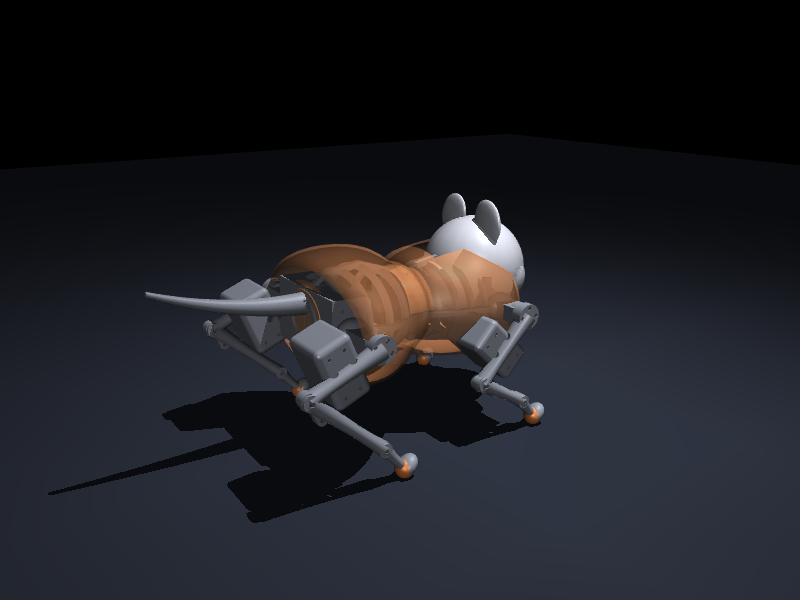
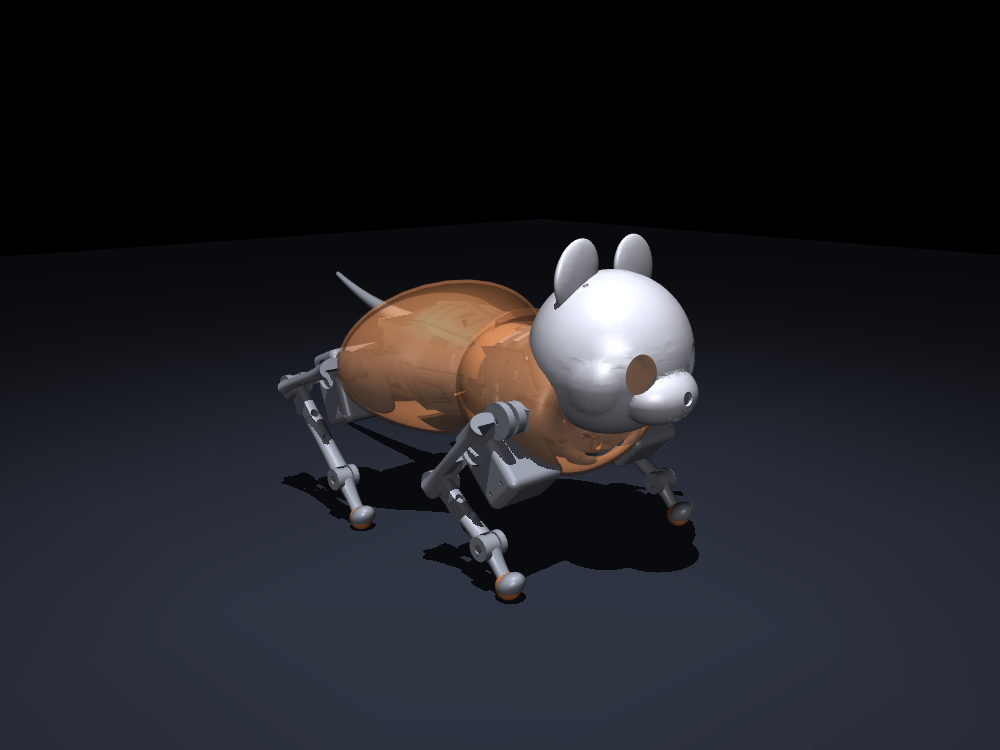
docs: refresh the README renders, and fix the scaling the new drives broke
The hero shot was taken from behind — tail to camera, head turned away — on a
robot whose whole point is the face. sim/render_assembly.py now emits a front
3/4 view, and every README still is re-rendered from the current model: they all
predated the mechanism rework and showed a robot that no longer exists.

Regenerating the scaling figure turned up two real problems.

The study reported the old 1451 g at k=1 and skipped every variant as "cached".
Its cache was keyed on SCALE alone, so a design change could not invalidate it —
the same class of drift as the insert counts. It is now keyed on a fingerprint of
the sources that decide the answer.

With the cache honest, every scale but k=1 failed to build. The tail and head-yaw
four-bars had been added with FIXED link lengths while their ground scaled off
FORE_LEN and AFT_LEN, so away from k=1 they no longer closed. The stations and
link lengths now scale with the body, the way the knee's four-bar already did, and
all three linkages assemble across the sweep. That moves the viable range to
k ≈ 0.7–1.5: the robot is lighter than it was, so it takes longer to reach the
1.6 kg ceiling.

The scaling figure was a hand-made image, which is why its caption could claim a
band the study no longer reported. analysis/scaling_study.py draws it now.

Changed region(s): [[0.1875, 0.3, 0.7188, 0.87], [0.0938, 0.78, 0.1875, 0.81], [0.0625, 0.81, 0.0938, 0.84]]

diff --git a/cad/params.py b/cad/params.py
@@ -39,6 +39,11 @@ def m(mm: float) -> float:
 # (like the servo, those are fixed COTS parts: M2/M3 screws, brass inserts, Ø6 axle).
 # DEFAULT-IDENTITY: with SABO_SCALE unset (=1.0) every constant is byte-identical to
 # the unscaled design (x*1.0 == x), so validation output and the tests are unchanged.
+#
+# Every LENGTH added later has to join this list or the scaled model stops assembling. The
+# remote drives were added with fixed link lengths while their GROUND scaled off FORE_LEN
+# and AFT_LEN, so at k != 1 the four-bars no longer closed and every variant but k=1 failed
+# to build -- silently, because the study's cache had no idea the design had moved.
 SCALE = float(os.environ.get("SABO_SCALE", "1.0"))
 
 
@@ -191,7 +196,7 @@ NECK_L = 34.0 * SCALE
 # behind it there is 15 mm. The head itself does not move -- only the yaw axis does, which
 # gives the head a slight sideways shift as it turns, the way a real neck does.
 HEAD_DRIVE = "remote_fourbar"
-HEAD_GIMBAL_STACK = 18.0           # pan axis -> pitch axis (= the head centre)
+HEAD_GIMBAL_STACK = 18.0 * SCALE   # pan axis -> pitch axis (= the head centre)
 HEAD_MOUNT_X = FORE_LEN - HEAD_GIMBAL_STACK
 LIM_HEAD_PAN = (-1.0, 1.0)         # rad: what the pan four-bar delivers with a crank small
                                    # enough to stay clear of the waist (2.07 rad available)
@@ -199,11 +204,13 @@ LIM_HEAD_PAN = (-1.0, 1.0)         # rad: what the pan four-bar delivers with a 
 # Pan: servo shaft (x, z) in the fore-torso frame, from actuator_fit.capacity('chest'),
 # dropped to the underside so its crank sweeps below the head ball (which reaches
 # down to z = -24 at the pan axis; the chest floor is at z = -39).
-PAN_SERVO = (31.0, -23.0)
+PAN_SERVO = (31.0 * SCALE, -23.0 * SCALE)
 # The crank is deliberately SMALL. A longer one reaches the same range with a nicer
 # transmission angle, but its swept disc runs back past the waist plane -- at crank 27
 # it reaches x = -0.5, into the aft half. At 17 it stops at x = +9.5.
-PAN_FOURBAR = dict(crank=17.0, coupler=47.0, rocker=13.5, crank_window=(-22.0, 87.0))
+PAN_FOURBAR = _scale_lengths(
+    dict(crank=17.0, coupler=47.0, rocker=13.5, crank_window=(-22.0, 87.0)),
+    ("crank", "coupler", "rocker"))
 
 # Pitch: the servo sits ON the pitch axis at the head's centre, its horn bolted to the
 # neck column, so the head nods against the column. No linkage.
@@ -230,14 +237,14 @@ def pitch_yoke_y() -> float:
 
 
 PITCH_YOKE_Y = 24.0                # legacy alias; prefer pitch_yoke_y()
-PITCH_YOKE_ARM = 8.0               # yoke arm cross-section (mm)
+PITCH_YOKE_ARM = 8.0 * SCALE               # yoke arm cross-section (mm)
 
 
-PAN_BEARING_Z = -35.0              # the neck's yaw bearing, in the chest under the ball
-NECK_COLUMN_W = 14.0               # column cross-section (mm)
+PAN_BEARING_Z = -35.0 * SCALE              # the neck's yaw bearing, in the chest under the ball
+NECK_COLUMN_W = 14.0 * SCALE               # column cross-section (mm)
 
 
-PAN_LINK_Z = 8.5                   # pan linkage plane, in the neck column's own frame
+PAN_LINK_Z = 8.5 * SCALE                   # pan linkage plane, in the neck column's own frame
                                    # (global z = PAN_BEARING_Z + this = -26.5: below the
                                    # head ball, which stops at -16, and above the chest
                                    # floor, which is at -34 under the servo)
@@ -264,7 +271,7 @@ def pitch_origin_local() -> tuple[float, float, float]:
 # The head sits above the shoulder line rather than level with it. That is how a cat is
 # built, and here it is also what gives the pan linkage a plane to run in: the head ball
 # reaches down to z = -24 at the yaw axis, and the pan rocker needs to pass UNDER it.
-HEAD_RISE = 8.0
+HEAD_RISE = 8.0 * SCALE
 
 
 def head_centre() -> tuple[float, float, float]:
@@ -273,9 +280,9 @@ def head_centre() -> tuple[float, float, float]:
 EYE_R = 11.0 * SCALE
 EYE_SPACING = 40.0 * SCALE
 CAM_R = 6.0           # internal camera bore radius (not in the scaled-dims list)
-EAR_BASE_H = 6.0           # flat foot of the ear, seated on the head's mounting pad
-EAR_FOOT_W = 10.0          # foot width across the head (Y)
-EAR_PAD_PROUD = 1.0        # how far the pad stands off the sphere, so the foot lands flat
+EAR_BASE_H = 6.0 * SCALE           # flat foot of the ear, seated on the head's mounting pad
+EAR_FOOT_W = 10.0 * SCALE          # foot width across the head (Y)
+EAR_PAD_PROUD = 1.0 * SCALE        # how far the pad stands off the sphere, so the foot lands flat
 
 
 def ear_station(side: int = 1) -> tuple[float, float, float]:
@@ -544,11 +551,11 @@ HORN_DISC_T = 2.5        # thickness of the metal STS3215 output disc
 # heat-set inserts in that pad.
 MOUNT_SCREW = "M3"
 MOUNT_SCREWS = 2                  # screws per leg bracket
-MOUNT_PAD = (26.0, 14.0)          # torso mount pad footprint (X, Z), mm —
+MOUNT_PAD = (26.0 * SCALE, 14.0 * SCALE)   # torso mount pad footprint (X, Z), mm —
                                   # kept short in Z so the bolted foot stays clear of
                                   # the knee servo boss swinging past it
-MOUNT_PAD_T = 5.0                 # pad thickness (grows inboard from the flank plane)
-MOUNT_BOLT_PITCH = 16.0           # screw spacing along X on the pad
+MOUNT_PAD_T = 5.0 * SCALE                 # pad thickness (grows inboard from the flank plane)
+MOUNT_BOLT_PITCH = 16.0 * SCALE           # screw spacing along X on the pad
 MOUNT_FACE_GAP = 0.15             # bracket-to-pad seating gap (a print-fit, not a joint)
 
 # =============================================================== waist joint clearance
@@ -567,11 +574,13 @@ WAIST_CLEAR = 3.0
 # ``TAIL_SERVO`` is the (x, z) of the servo's OUTPUT SHAFT in the aft-torso frame, chosen
 # from ``analysis.actuator_fit.capacity('aft')`` -- the one station where the housing fits.
 TAIL_DRIVE = "remote_crank"        # 'direct' (servo on the joint) | 'remote_crank'
-TAIL_SERVO = (-54.0, 0.0)
+TAIL_SERVO = (-54.0 * SCALE, 0.0)
 # Link lengths from a search over analysis.fourbar with this ground distance, keeping the
 # transmission angle inside the same 40-140 deg band the knee uses. Gives 2.14 rad of
 # rocker travel against the +-1.0 rad the tail joint actually needs.
-TAIL_FOURBAR = dict(crank=21.5, coupler=45.0, rocker=18.0, crank_window=(-28.5, 84.0))
+TAIL_FOURBAR = _scale_lengths(
+    dict(crank=21.5, coupler=45.0, rocker=18.0, crank_window=(-28.5, 84.0)),
+    ("crank", "coupler", "rocker"))
 LIM_TAIL = (-1.0, 1.0)             # rad, matches cad/assembly.py's tail link
 
 

diff --git a/analysis/scaling_study.py b/analysis/scaling_study.py
@@ -34,6 +34,7 @@ import argparse
 import json
 import os
 import re
+import pathlib
 import subprocess
 import sys
 import traceback
@@ -53,18 +54,49 @@ CACHE = os.path.join(OUT_DIR, "_scaling_cache.json")
 _J0, _J1 = "<<<SCALING_JSON>>>", "<<<END_SCALING_JSON>>>"
 
 
+_FINGERPRINT_KEY = "__design__"
+
+
+def _design_fingerprint() -> str:
+    """A hash of the sources that decide what a scaled variant comes out as.
+
+    The cache is keyed by SCALE alone, which is only safe while the design does not move.
+    It did: a run after the mechanism rework reported the old 1451 g at k=1 and skipped
+    every variant as "cached". Keying the cache on the design as well means a changed
+    model invalidates it instead of quietly serving the previous one."""
+    import hashlib
+
+    root = os.path.dirname(os.path.dirname(os.path.abspath(__file__)))
+    h = hashlib.sha256()
+    srcs = sorted(pathlib.Path(root, "cad").rglob("*.py"))
+    srcs += [pathlib.Path(root, "sim", "gait.py"), pathlib.Path(root, "analysis", "validate.py")]
+    for f in srcs:
+        if "__pycache__" in f.parts:
+            continue
+        h.update(f.name.encode())
+        try:
+            h.update(f.read_bytes())
+        except OSError:
+            pass
+    return h.hexdigest()[:16]
+
+
 def _load_cache() -> dict:
     try:
         with open(CACHE, encoding="utf-8") as f:
-            return json.load(f)
+            cache = json.load(f)
     except (OSError, ValueError):
         return {}
+    if cache.pop(_FINGERPRINT_KEY, None) != _design_fingerprint():
+        print("  (design changed since the cache was written — recomputing)", flush=True)
+        return {}
+    return cache
 
 
 def _save_cache(cache: dict) -> None:
     os.makedirs(OUT_DIR, exist_ok=True)
     with open(CACHE, "w", encoding="utf-8") as f:
-        json.dump(cache, f, indent=2)
+        json.dump({**cache, _FINGERPRINT_KEY: _design_fingerprint()}, f, indent=2)
 
 # regexes over validate's OWN reported detail strings (the study is a faithful
 # CONSUMER of validate's numbers, so the table can never disagree with the checker).
@@ -385,6 +417,63 @@ def build_markdown(by_k: dict[str, dict]) -> str:
     return "\n".join(L) + "\n"
 
 
+def write_figure(by_k: dict, path: str) -> str | None:
+    """Plot the sweep — the README's scaling figure, drawn from this run's own numbers.
+
+    It used to be a hand-made image, which meant its caption could go stale without
+    anything noticing; it claimed a viable band the study no longer reported. Emitting it
+    here puts the picture under the same rule as the tables."""
+    try:
+        import matplotlib
+        matplotlib.use("Agg")
+        import matplotlib.pyplot as plt
+    except ImportError:
+        return None
+
+    ks, mass, static, dyn, roll, ok = [], [], [], [], [], []
+    for k in RANGE_SCALES:
+        r = by_k.get(k)
+        if not r or r.get("validate", {}).get("mass_g") is None:
+            continue
+        ks.append(float(k))
+        mass.append(r["validate"]["mass_g"])
+        static.append(r["validate"]["static_peak_torque_pct"])
+        dyn.append(r["walk"].get("dynamic_peak_torque_pct"))
+        roll.append(r["walk"].get("roll_pp_deg"))
+        ok.append(_buildable(r))
+
+    from cad import params as P
+    lo, hi = (v * 1000.0 for v in P.MASS_TARGET)
+    fig, ax = plt.subplots(1, 3, figsize=(13, 3.8))
+
+    ax[0].axhspan(lo, hi, color="0.90", label="mass target")
+    ax[0].plot(ks, mass, "o-", color="#1f77b4")
+    ax[0].set_ylabel("total mass (g)")
+
+    ax[1].axhline(50, ls="--", color="#d62728", label="static limit (SF 2)")
+    ax[1].plot(ks, static, "o-", color="#ff7f0e", label="static peak")
+    ax[1].plot(ks, dyn, "s-", color="#2ca02c", label="walk peak")
+    ax[1].set_ylabel("% of servo stall")
+    ax[1].legend(fontsize=7)
+
+    ax[2].plot(ks, roll, "o-", color="#9467bd")
+    ax[2].set_ylabel("walk torso roll p-p (deg)")
+
+    kmin, kmax = min((k for k, o in zip(ks, ok) if o), default=None), \
+        max((k for k, o in zip(ks, ok) if o), default=None)
+    for a in ax:
+        if kmin is not None:
+            a.axvspan(kmin, kmax, color="#2ca02c", alpha=0.10)
+        a.set_xlabel("SCALE k")
+        a.grid(alpha=0.25)
+    fig.suptitle("Sabo scaling study — one SCALE knob, re-validated end to end"
+                 "   (shaded k = buildable: %s–%s)" % (kmin, kmax), fontsize=10)
+    fig.tight_layout()
+    fig.savefig(path, dpi=130)
+    plt.close(fig)
+    return path
+
+
 def main() -> int:
     ap = argparse.ArgumentParser(description=__doc__)
     ap.add_argument("--worker", metavar="K",
@@ -456,9 +545,14 @@ def main() -> int:
                    "viable_range": _viable_range([by_k[k] for k in RANGE_SCALES]),
                    "variants": by_k}, f, indent=2)
 
+    fig_path = write_figure(by_k, os.path.join(
+        os.path.dirname(OUT_DIR), "img", "scaling.png"))
+
     print("-" * 70)
     print(f"wrote {os.path.relpath(md_path)}")
     print(f"wrote {os.path.relpath(json_path)}")
+    if fig_path:
+        print(f"wrote {os.path.relpath(fig_path)}")
     return 0
 
 

diff --git a/sim/render_assembly.py b/sim/render_assembly.py
@@ -1,7 +1,14 @@
-"""Assembly stills (front + iso) via MuJoCo — eyeball the slim shoulders.
+"""Assembly stills via MuJoCo — the robot as its own kinematics actually pose it.
 
-Steps the rig to a settled stance, then captures a front and a 3/4-iso PNG with a
-free camera following the torso CoM. Saves to cad/out/assembly_{front,iso}.png.
+Steps the rig to a settled stance, then captures a set of views with a free camera
+following the torso CoM. Saves to ``cad/out/assembly_<view>.png``.
+
+Azimuth runs with the robot's nose at 175 deg, so the views are:
+
+    hero    front 3/4 — the one the README leads with, so it has to show the FACE
+    front   straight on
+    side    profile, for the digitigrade stance
+    iso     rear 3/4, which is what the old hero shot actually was
 """
 
 from __future__ import annotations
@@ -34,8 +41,9 @@ def main():
     # to let it settle level on the floor before the still.
     for _ in range(300):
         mujoco.mj_step(rig.model, rig.data)
-    renderer = mujoco.Renderer(rig.model, 600, 800)
-    for label, (az, el) in (("iso", (55, -18)), ("front", (175, -8))):
+    renderer = mujoco.Renderer(rig.model, 750, 1000)
+    for label, (az, el) in (("hero", (138, -14)), ("front", (175, -8)),
+                            ("side", (95, -8)), ("iso", (55, -18))):
         renderer.update_scene(rig.data, camera=_cam(rig, az, el))
         p = os.path.join(OUT, f"assembly_{label}.png")
         Image.fromarray(renderer.render()).save(p)

diff --git a/sim/mjcf.py b/sim/mjcf.py
@@ -121,7 +121,8 @@ def build_mjcf(start_z: float | None = None) -> str:
   <asset>
 {assets}
   </asset>
-  <visual><global offwidth="900" offheight="700"/></visual>
+  <!-- Offscreen buffer for the README stills; MuJoCo will not render larger than this. -->
+  <visual><global offwidth="1400" offheight="1100"/></visual>
   <worldbody>
     <light pos="0.3 -0.3 1.2" dir="-0.2 0.2 -1" diffuse="0.9 0.9 0.9"/>
     <camera name="cam" pos="0.02 -0.52 0.20" xyaxes="1 0 0 0 0.35 1" mode="trackcom"/>

diff --git a/README.md b/README.md
@@ -1,12 +1,15 @@
 # Sabo — a low-cost, quiet, compliant 3D-printed quadruped
 
-![Sabo — inner frame under a translucent skin](docs/img/hero.png)
+![Sabo — the inner frame under a translucent skin](docs/img/hero.png)
+<p align="center"><em>Standing in the pose its own kinematics settle into — MuJoCo, not a posed CAD render.</em></p>
 
 <p align="center">
   <img src="docs/img/front.png" alt="Front view — the face" width="46%" />
   <img src="docs/img/walk.gif" alt="Walking gait, front-facing (MuJoCo)" width="46%" />
 </p>
-<p align="center"><em>Left: front view (face). Right: walk gait, front-facing, CoM-tracked (MuJoCo) — torso roll ≈ 2.5° p-p.</em></p>
+<p align="center"><em>Left: the face — Ø100 head on a 180 mm body, baby-schema by intent and by
+actuator budget (it holds two of the twelve servos). Right: walk gait, CoM-tracked — torso
+roll ≈ 3.1° p-p.</em></p>
 
 Sabo is a kitten-scale (**~1.31 kg**) quadruped platform: **fully 3D-printed**, driven by
 cheap **serial-bus servos**, and designed to be **quiet** and **backdrivable** enough to
@@ -31,6 +34,10 @@ backdrivable + sub-1 kg** at once.
 - **Cat-anatomical morphology** — digitigrade 4-DOF legs (front/rear differ), a sagittal
   spine (waist) joint, and a 2-axis head gimbal (pan + pitch; roll is handled by EIS), in
   a parametric build123d model.
+- **Actuators placed where they fit, not where they are convenient** — four joints have no
+  room for a servo on the joint itself, so they are driven through four-bars from wherever
+  there is: the hips from the torso core, the knees from up the thigh, the tail and the
+  head's yaw from the body. `analysis/actuator_fit.py` is what decides.
 - **A limb architecture for cheap compliance** — a **proximal four-bar knee** (cable-free,
   light shank), a **remote-axle hip** (servos in the torso → −93 % hip lateral inertia),
   and **coupled underactuation** (2 motors/leg).
@@ -64,7 +71,7 @@ All derived from the model — regenerate with `python -m analysis.platform_repo
 | Four-bar knee | 128° ROM, 41–140° transmission angle (singularity-free) |
 | Remote-axle hip | **−93 %** hip lateral inertia (motors relocated to the torso) |
 | Envelope | 352 × 201 × 197 mm |
-| Viable scale range | **k ≈ 0.7–1.25** (body 126–225 mm) — the fixed actuator sets the window |
+| Viable scale range | **k ≈ 0.7–1.5** (body 126–270 mm) — the fixed actuator sets the window |
 
 Gait benchmark (MuJoCo):
 
@@ -85,19 +92,27 @@ Gait benchmark (MuJoCo):
   <img src="docs/img/loaf.png" alt="Loaf pose" width="31%" />
   <img src="docs/img/sit.png" alt="Sit pose" width="31%" />
 </p>
-<p align="center"><em>Left → right: digitigrade stance (side), loaf, sit — current model, MuJoCo.</em></p>
+<p align="center"><em>Left → right: digitigrade stance (side), loaf, sit — current model, MuJoCo.
+The ribcage, the channel thighs and the four-bar inside them read through the translucent skin.</em></p>
 
 ### Mechanism & analysis
 
 <p align="center">
   <img src="docs/img/fourbar.png" alt="Four-bar knee kinematics" width="90%" />
 </p>
-<p align="center"><em>Proximal four-bar knee — 128° ROM, monotonic and invertible, with the transmission angle held inside 40–140° (no singularity/lock-up).</em></p>
+<p align="center"><em>Proximal four-bar knee — 129° ROM, monotonic and invertible, with the
+transmission angle held inside 40–140° (no singularity/lock-up). The same tool sizes the
+tail and head-yaw drives, which are four-bars for the same reason: no room for a servo on
+the joint itself.</em></p>
 
 <p align="center">
   <img src="docs/img/scaling.png" alt="Design-as-code scaling study" width="74%" />
 </p>
-<p align="center"><em>Scaling study — the whole robot regenerated + re-validated from one <code>SCALE</code> knob. The <b>fixed</b> actuator pins the viable build window to <b>k ≈ 0.7–1.25</b>: scale up until mass/torque run out, down until the servo no longer fits.</em></p>
+<p align="center"><em>Scaling study — the whole robot regenerated + re-validated from one
+<code>SCALE</code> knob, and this figure is drawn by that same run. The <b>fixed</b> actuator pins the
+viable window to <b>k ≈ 0.7–1.5</b>: scale up until mass and static torque run out, down until the
+45 mm servo body no longer fits the thigh. Note the walk peak (green) barely moves — the limits are
+the static budget and packaging, not gait stability.</em></p>
 
 ## Repository layout
 
@@ -154,8 +169,10 @@ python -m analysis.scaling_study       # regenerate + re-validate the robot at k
 ```
 
 The **scaling study** shows the toolchain rescaling the whole robot from one `SCALE` knob
-(env `SABO_SCALE`) with no drift, and finds the **viable build range k ≈ 0.7–1.25** — the
-scale window is pinned by the *fixed* actuator/electronics, not the printed geometry.
+(env `SABO_SCALE`) with no drift, and finds the **viable build range k ≈ 0.7–1.5** — the
+scale window is pinned by the *fixed* actuator/electronics, not the printed geometry. Its
+cache is keyed on a fingerprint of the design, so a changed model invalidates it instead of
+quietly re-serving the previous run's numbers.
 
 ## Documentation
 

diff --git a/docs/platform.md b/docs/platform.md
@@ -114,11 +114,17 @@ spec sheet is derived live, so it cannot disagree with the printed/simulated rob
 **Scaling study (C3 evidence):** `analysis/scaling_study.py` regenerates + re-validates
 the whole robot at k = 0.5–1.75 from a single `SCALE` knob, in a fresh subprocess per
 scale (`docs/out/scaling_study.md`). It confirms the pipeline rescales with no drift, and
-maps the **viable build range k ≈ 0.7–1.25** (body 126–225 mm): below it the fixed-size
-servo/electronics break the design three ways (walk→100 % stall & fall, servo won't fit
-the thigh, CAD blows through); above it mass exits the 1.6 kg band (k=1.5) then static
-torque crosses the 2× line (k=1.75). The scale window is pinned by the *fixed actuator*,
-not the geometry — a finding only a design-as-code sweep can produce cheaply.
+maps the **viable build range k ≈ 0.7–1.5** (body 126–270 mm): below it the fixed-size
+servo body (45 mm) no longer fits the shrinking thigh; above it mass exits the 1.6 kg band
+and static torque crosses the 2× line together at k = 1.75. The scale window is pinned by
+the *fixed actuator*, not the geometry — a finding only a design-as-code sweep can produce
+cheaply.
+
+The sweep also caches per scale, which was a hazard: keyed on `SCALE` alone it happily
+re-served results from before the mechanism rework, reporting a mass the model no longer
+had. It is now keyed on a fingerprint of the design sources too, and it earns its keep —
+the first honest re-run failed at every scale but k = 1, because the remote drives had
+been added with fixed link lengths while their ground scaled with the body.
 
 ## Honest gap — what stands between this and an accepted platform paper
 
